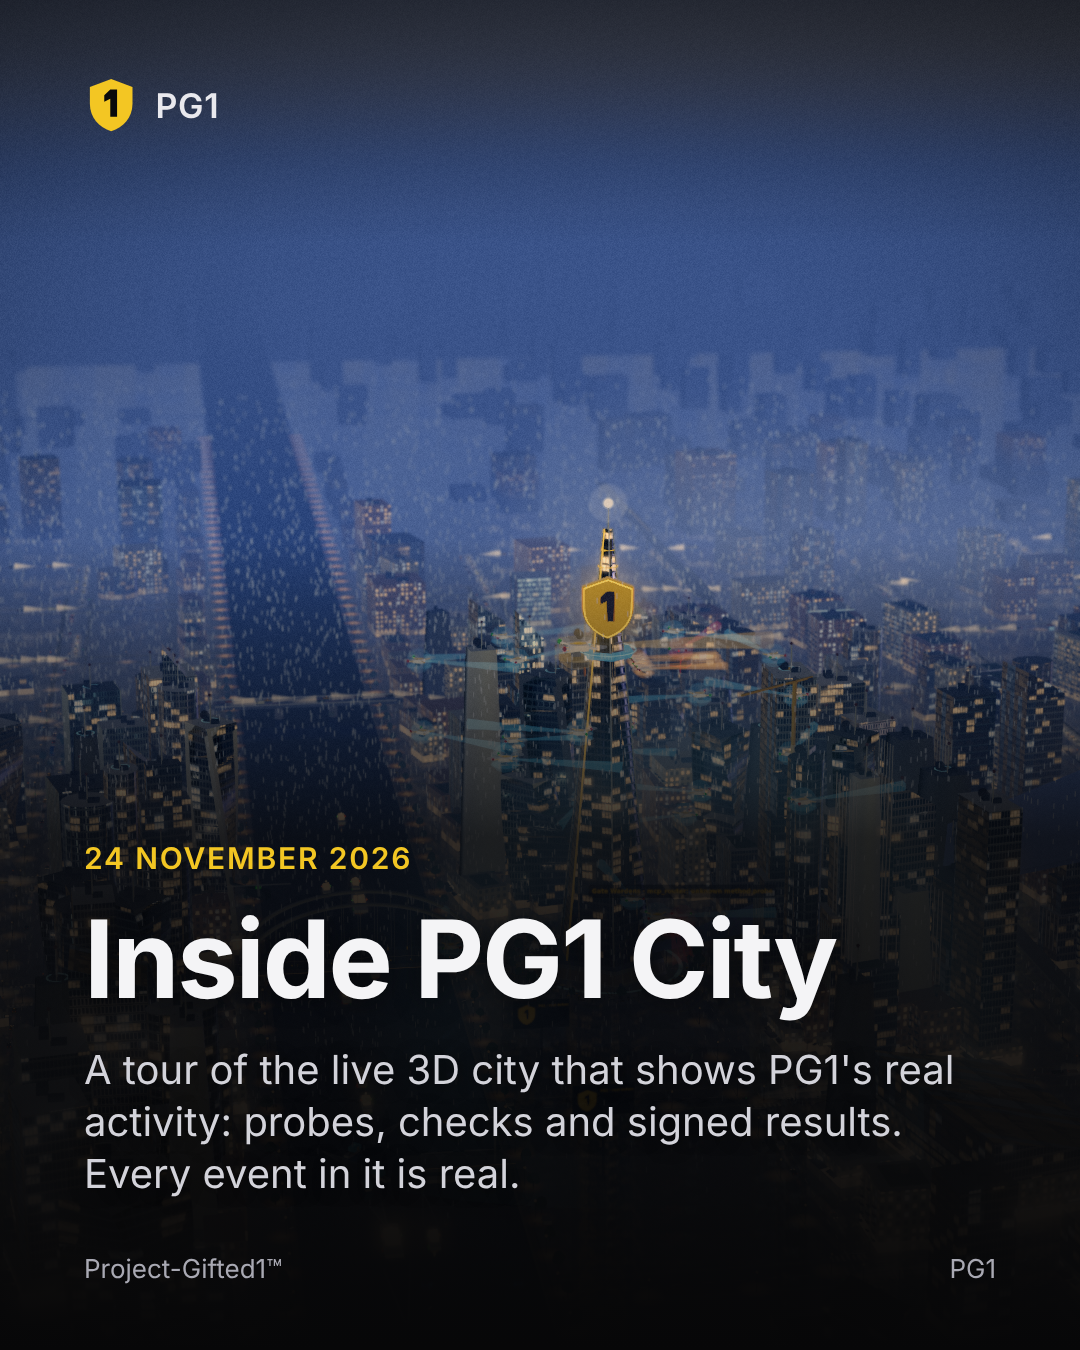
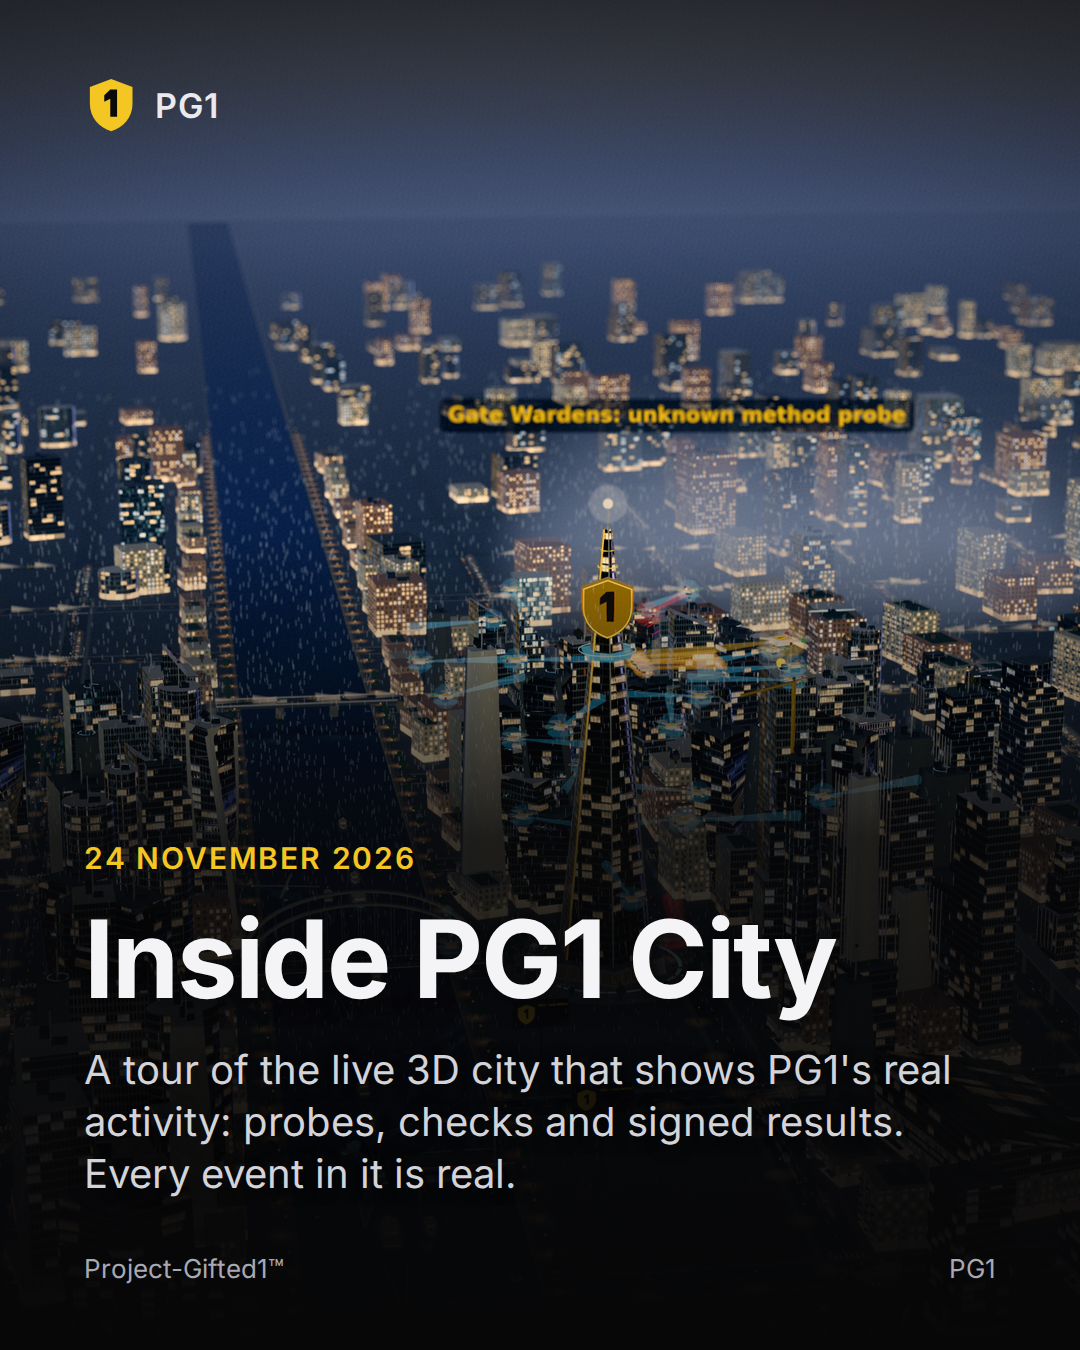
Post: re-rendered slides 1-7 and the Story from the 15:04 reel run; reel-contact-sheet.jpg and contact-sheet.jpg in git; reel published as release social-2026-11-24
Built by the PG1 Showcase render release job from run 45421308040 (no plaza shot).

Claude-Session: https://claude.ai/code/session_01X8yNKDfwCEhb33w3RG1ZGd

diff --git a/docs/social/2026-11-24/copy.md b/docs/social/2026-11-24/copy.md
@@ -5,14 +5,16 @@ Built by `scripts/social-inside-city.mjs` from the Showcase render (`scripts/sho
 ## Data
 
 - **Window:** the defence feed's last 7 days, read only, up to 2026-11-24T00:14:54.000Z (UTC).
-- **Events:** real PG1 events, last 7 days to 2026-11-24T00:14:54.000Z (213 shown of 216; payments and caller hashes left out).
+- **Events:** real PG1 events, last 7 days to 2026-11-24T00:14:54.000Z (212 shown of 215; payments and caller hashes left out).
 - **Counts shown:** probes and checks from 12 countries (CA, CZ, DE, FI, FR, GB, HK, IL, KR, NL, RU, US), events dated 20 Nov, 23:47 to 23 Nov, 23:36. Countries come from IP geolocation and are approximate. No payment figure is shown anywhere.
 - **Weather:** Dublin, recorded (Open-Meteo archive (ERA5 reanalysis)): 2026-11-23T05:00 51 (rain) then 2026-11-23T06:00 3 (clearing), Europe/Dublin time. Weather data by Open-Meteo.com (CC BY 4.0). Not live.
 - **Privacy:** no caller hash, IP or anything identifying a caller is in the renders, the reel or this file.
 
 ## Reel (`reel-1080x1920.mp4`)
 
-30.0 s, 1080 x 1920, H.264 (libx264 -preset veryfast -crf 18), yuv420p, 30 fps, 0.5 s crossfades, no audio.
+Download: [reel-1080x1920.mp4](https://github.com/Project-Gifted1/pg1-ai-agent/releases/download/social-2026-11-24/reel-1080x1920.mp4) (release asset `social-2026-11-24`; the MP4 is kept out of git).
+
+30.0 s, 1080 x 1920, H.264 (libx264 -preset veryfast -crf 18), yuv420p, 30 fps, 0.2 s crossfades, no audio.
 
 | Shot | Lower third | In the reel | Real data replayed |
 |---|---|---|---|
@@ -21,18 +23,18 @@ Built by `scripts/social-inside-city.mjs` from the Showcase render (`scripts/sho
 | A result is signed | left out: no real signed result in the last 7 days | - | none (no event staged) |
 | Lane traffic at a junction | "Traffic keeps its lanes" | 3.2 s | none (no event staged) |
 | The river and the arched bridge | "Boats on the river" | 3.2 s | none (no event staged) |
-| Patrols meet real probes | "Patrols meet real probes" | 3.2 s | check verdict DE: flagged agent message (23 Nov, 12:16); check verdict US: flagged repo trap (21 Nov, 00:28); approval: waiting for approval (23 Nov, 07:30); probe DE Gate Wardens: unknown method probe (23 Nov, 22:35) |
+| Patrols meet real probes | "Patrols meet real probes" | 3.2 s | check verdict DE Truth Lens: malicious (23 Nov, 12:16); check verdict US Repo Trap Scanner: malicious (21 Nov, 00:28); probe DE Gate Wardens: unknown method probe (23 Nov, 22:35); report Watchtower Beacons: report landed (23 Nov, 07:30) |
 | Real Dublin weather | "Real Dublin weather" | 3.2 s | recorded weather 2026-11-23T05:00 → 2026-11-23T06:00 |
-| Street level in the plaza | "People in the plaza" | 3.2 s | none (no event staged) |
+| Street level in the plaza | left out: cut in the edit: its eye-level walkers read as mannequins, not shoppers | - | none (no event staged) |
 | The tram line by day | "Trams on the line" | 3.2 s | none (no event staged) |
 | The city by day | "The city by day" | 3.2 s | none (no event staged) |
 | Day to night | "Windows follow Dublin time" | 3.2 s | none (no event staged) |
 | Director mode | left out: cut in the edit: its follow camera ends in a dark close-up on the river; the whole-city shot replays the same director events | - | none (no event staged) |
-| The whole city | "Inside PG1 City" | 3.2 s | check verdict DE: flagged agent message (23 Nov, 12:16); check verdict US: flagged repo trap (21 Nov, 00:28); approval: waiting for approval (23 Nov, 07:30); probe DE Gate Wardens: unknown method probe (23 Nov, 22:35) |
+| The whole city | "Inside PG1 City" | 3.2 s | check verdict DE Truth Lens: malicious (23 Nov, 12:16); check verdict US Repo Trap Scanner: malicious (21 Nov, 00:28); probe DE Gate Wardens: unknown method probe (23 Nov, 22:35); report Watchtower Beacons: report landed (23 Nov, 07:30) |
 
 ## Post caption (ready to paste)
 
-Inside PG1 City: a live 3D city drawn from PG1's real activity. 213 real events in 7 days (17 Nov–24 Nov 2026), with probes and checks from 12 countries, replayed as they happened. Boats, trams, traffic and Dublin's recorded weather fill in the rest; every event in it is real.
+Inside PG1 City: a live 3D city drawn from PG1's real activity. 212 real events in 7 days (17 Nov–24 Nov 2026), with probes and checks from 12 countries, replayed as they happened. Boats, trams, traffic and Dublin's recorded weather fill in the rest; every event in it is real.
 
 Free checks for AI agents: link in bio.
 
@@ -80,9 +82,9 @@ _Image: the "junction-traffic" shot._
 
 ### 6. The river and the patrols · River and drones
 
-Boats pass under the arched bridge, with lamp pools along the promenade. PG1's drones patrol in rings round the tower, one for each live check, with navigation lights at night.
+Boats pass under the arched bridge, with lamp pools along the promenade. Overhead, PG1's drones patrol, one for each live check, with navigation lights at night.
 
-_Image: the "drone-patrol" shot._
+_Image: the "river-bridge" shot._
 
 **Note:** The river, bridges and promenade lamps: public/kingdom/kingdom-world.js; river life: public/kingdom/kingdom-life.js. Drones: public/kingdom/kingdom-actors.js (sentinels, one per live check from the MCP tool list; lit bodies, nav lights, strobe and night underglow since 23 Nov).
 
